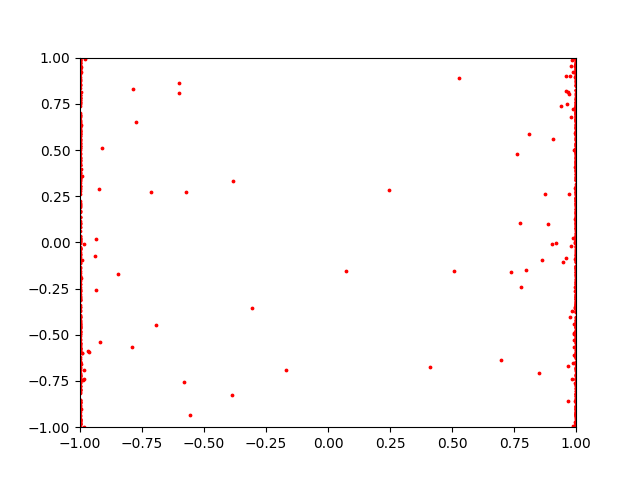
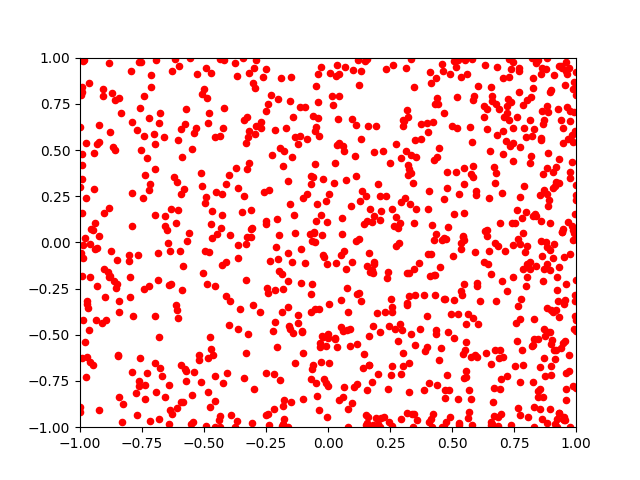
corrected dispersion coeff

Changed region(s): [[0.125, 0.125, 0.9062, 0.9062], [0.375, 0.5625, 0.4062, 0.5938], [0.125, 0.8438, 0.1562, 0.875]]

diff --git a/src/particle_model_oo.py b/src/particle_model_oo.py
@@ -13,8 +13,8 @@ import numpy as np
 
 import helpers as h
 
-# Setup logger and absolute paths
-logger = h.Logger()
+logger = h.easy_logger(__name__)
+
 CURRENT_FILE = os.path.abspath(__file__)
 CURRENT_DIR = os.path.dirname(CURRENT_FILE)
 PROJECT_DIR = os.path.dirname(CURRENT_DIR)
@@ -52,9 +52,9 @@ def depth_avgd_disp_der(x, y):
     :return: list of the derivative terms [d(HDx)/dx/H, d(HDy)/dy/H]
     """
     depth = depth_func(x, y)
-    x_comp = 5 * (1 + np.cos(np.pi * x) - (3 + x) * np.sin(np.pi * x)) / depth
-    y_comp = -5 * np.pi * (3 + x) * np.sin(np.pi * y) / depth
-    return [x_comp, y_comp]
+    x_comp = 5 * (1 + np.cos(np.pi * x) - np.pi * (3 + x) * np.sin(np.pi * x))
+    y_comp = -5 * np.pi * (3 + x) * np.sin(np.pi * y)
+    return [x_comp / depth, y_comp / depth]
 
 
 def velocities(x, y):
@@ -223,7 +223,7 @@ class Particles:
         """
         Scatter plot all of the particles at their current position
         """
-        plt.scatter(self.pos_x, self.pos_y, color=color, s=5)
+        plt.scatter(self.pos_x, self.pos_y, color=color, s=20)
 
     def scatter_plot(self, title=None):
         title = title or f"Particles - P{self.size}"
@@ -234,6 +234,7 @@ class Particles:
         plt.ylim([self.domain.ymin, self.domain.ymax])
         plt.xlabel(r"$x$")
         plt.ylabel(r"$y$")
+
 
 class ParticleSimulation():
     def __init__(self, n_particles, n_steps, end_time=100, scheme="euler"):
@@ -248,8 +249,8 @@ class ParticleSimulation():
         self.domain = Domain()
         self.wiener_x = WienerProcess(n_steps, n_particles, self._dt)
         self.wiener_y = WienerProcess(n_steps, n_particles, self._dt)
-        self.particles = Particles(
-            n_particles, self.wiener_x, self.wiener_y, self.domain)
+        self.particles = Particles(n_particles, self.wiener_x,
+                                   self.wiener_y, self.domain)
 
     def standard_title(self):
         title = f"{self._scheme}-P{self._num_particles}"
@@ -279,7 +280,7 @@ class ParticleSimulation():
         choice.
         """
         status = (self._current_step + 1) / self._num_steps * 100
-        logger.debug(f"Simulation status: {status:4.1f} % done", end='\r')
+        logger.debug(f"Simulation status: {status:4.1f} % done")
         self._time += self._dt
         self.particles.perform_step(self._current_step, self._dt, self._scheme)
 
@@ -295,7 +296,8 @@ class ParticleSimulation():
 
             file_name = os.path.join(OUTPUT_DIR, file_name)
             plt.savefig(file_name)
-            logger.info(f"Saved state plot at time {self._time:.2f} as {file_name}")
+            logger.info(
+                f"Saved state plot at time {self._time:.2f} as {file_name}")
 
         if show:
             plt.show()
@@ -303,7 +305,7 @@ class ParticleSimulation():
     @h.timing
     def run(self, show_plot=False, plot_name=False, animation=False):
         logger.info("Starting particle model run")
-        
+
         for self._current_step in range(self._num_steps):
             self.step()
 
@@ -351,7 +353,7 @@ class ParticleSimulation():
 
 if __name__ == "__main__":
     simul = ParticleSimulation(n_particles=10, n_steps=100000,
-                               end_time=1000, scheme="milstein")
+                               end_time=1000, scheme="euler")
     simul.run(show_plot=False, plot_name=True, animation=False)
 
     plt.show()

diff --git a/src/helpers.py b/src/helpers.py
@@ -6,6 +6,20 @@ Contains:
 """
 
 import time
+import logging
+
+
+def easy_logger(name, level=logging.INFO):
+    logger = logging.getLogger(name)
+    handler = logging.StreamHandler()
+    formatter = logging.Formatter('%(name)-10s- %(levelname)-7s: %(message)s')
+    handler.setFormatter(formatter)
+    logger.addHandler(handler)
+    logger.setLevel(level)
+    return logger
+
+
+logger = easy_logger(__name__)
 
 
 def timing(func):
@@ -13,52 +27,13 @@ def timing(func):
         separator = "-"
         separate = 79 * separator
         print(separate)
+        logger.info(f"Starting timer for function '{func.__name__}'\n")
         start_time = time.time()
         result = func(*args, **kwargs)
         end_time = time.time()
-        print(f"\n{func.__name__} took {end_time - start_time:6.2f} seconds "
-              f"to execute")
+        print()
+        logger.info(f"'{func.__name__}' took {end_time - start_time:6.2f} "
+                    f"seconds to execute")
         print(separate)
         return result
     return wrapper
-
-
-CRITICAL = 50
-FATAL = CRITICAL
-ERROR = 40
-WARNING = 30
-WARN = WARNING
-INFO = 20
-DEBUG = 10
-NOTSET = 0
-
-
-class Logger:
-    def __init__(self, level=NOTSET):
-        self.level = level
-
-    def debug(self, *args, **kwargs):
-        if self.level <= DEBUG:
-            print('[  DEBUG ]', *args, **kwargs)
-
-    def info(self, *args, **kwargs):
-        if self.level <= INFO:
-            print('[  INFO  ]', *args, **kwargs)
-
-    def warn(self, *args, **kwargs):
-        if self.level <= WARNING:
-            print('[  WARN  ]', *args, **kwargs)
-
-    def error(self, *args, **kwargs):
-        if self.level <= WARNING:
-            print('[  ERROR ]', *args, **kwargs)
-
-    def critical(self, *args, **kwargs):
-        if self.level <= CRITICAL:
-            print('[CRITICAL]', *args, **kwargs)
-
-    def warning(self, *args, **kwargs):
-        self.warn(*args, **kwargs)
-
-    def fatal(self, *args, **kwargs):
-        self.critical(*args, **kwargs)
